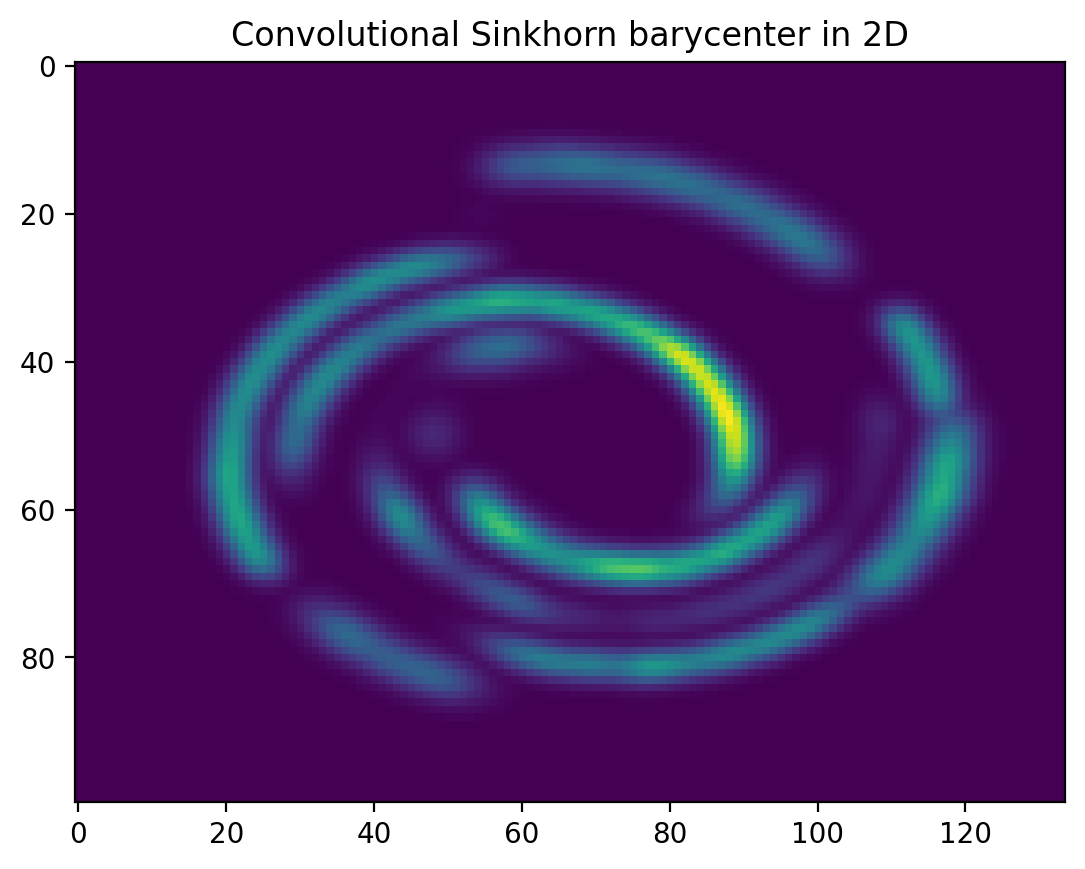
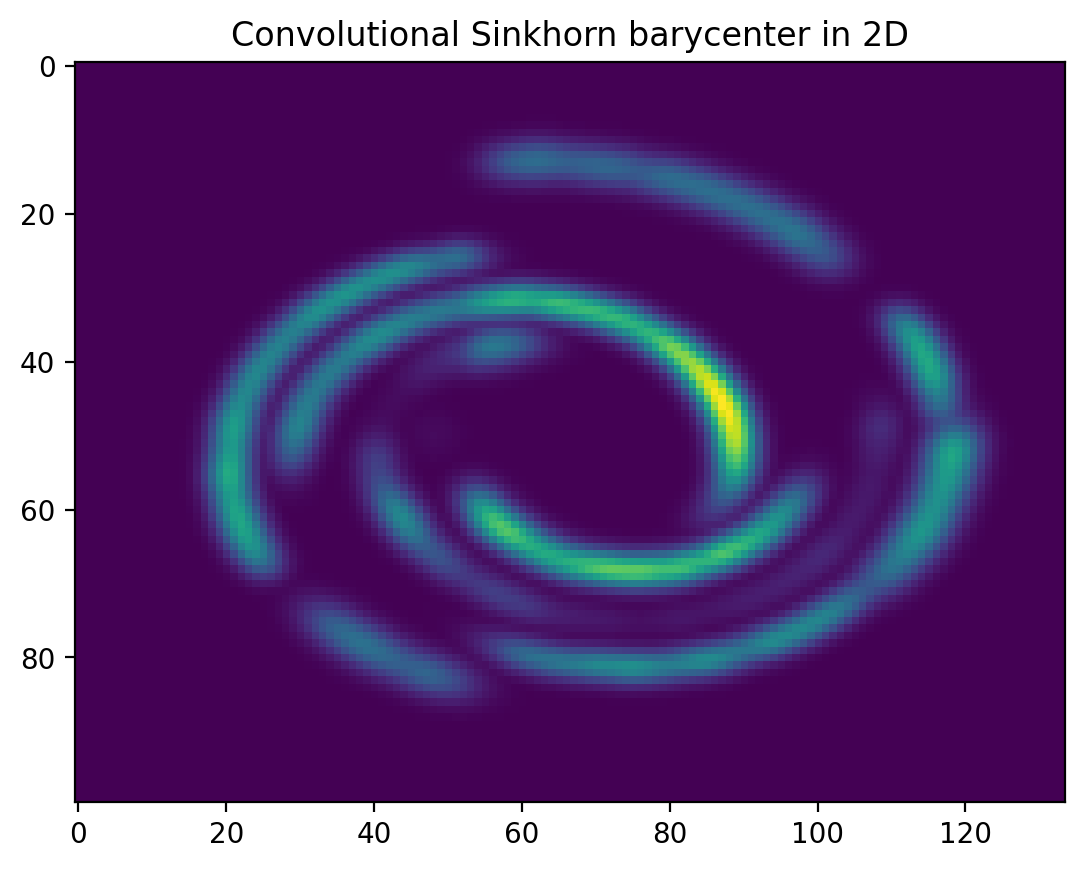
updating the README

diff --git a/README.md b/README.md
@@ -1,32 +1,40 @@
 # Tree-based Diffusion Schr&ouml;dinger Bridge
 
 This is the official code for the paper 'Tree-Based Diffusion Schr&ouml;dinger Bridge with Applications to Wasserstein
-Barycenters'. It extends the framework of [Diffusion Schr&ouml;dinger Bridge](https://arxiv.org/abs/2106.01357) to any
+Barycenters'. It extends the framework of [Diffusion Schr&ouml;dinger Bridge](https://arxiv.org/abs/2106.01357) [1] to
+any
 tree-structured joint distribution with known marginals on the leaves (thus including the classical Schr&ouml;dinger
 Bridge problem). By considering star-shaped trees, it enables to compute regularized Wasserstein-2 barycenters for
 high-dimensional empirical probability
-distributions, which is of main interest in Optimal Transport (OT).
+distributions, which is of main interest in Optimal Transport (OT). Our method is competitive with respect to state-of-the-art *regularized*
+algorithms from [2] and [3] in high-dimensional settings.
 
 ![drawing](images/drawing_tree.png)
 
 In our setting, **each edge of the tree is parameterized by two neural networks**, which model the forward and backward
 drifts of the diffusion processes. In theory, this requires to consider 2M neural networks, where M stands for the
-number of edges in the tree. To avoid any memory issue in practice, *our code only requires to consider 2 active neural networks*
-at each stage of the training process.
+number of edges in the tree. To avoid any memory issue in practice, *our code only requires to consider 2 active neural
+networks*
+at each stage of the training process. 
 
 Illustration (2D)
 ------------
 
-- *First row*: estimation of densities (OT reg=0.05 with 60 IPF cycles).
-- *Second to fourth row*: estimation of the Wasserstein-2 barycenter by diffusing from each leaf with various OT
-  regularizations (OT reg=0.05 with 60 IPF cycles, OT reg=0.1 with 50 IPF cycles, OT reg=0.2 with 50 IPF cycles).
+The following plots were obtained by considering the dataset 'Swiss Roll' as the first root in the training process. The
+corresponding models are saved in the directory `./checkpoints_model`.
 
-| Swiss Roll                                                                                              | Circle                                                                                                    | Moons                                                                                                   |
-|---------------------------------------------------------------------------------------------------------|-----------------------------------------------------------------------------------------------------------|---------------------------------------------------------------------------------------------------------|
-| ![swiss_f](images/2d_3datasets_epsilon=0.05/swiss_0_f_0_sde_epsilon=0.050_eps1_density_49_smooth.png)   | ![circle_f](images/2d_3datasets_epsilon=0.05/circle_0_f_0_sde_epsilon=0.050_eps1_density_49_smooth.png)   | ![moons_f](images/2d_3datasets_epsilon=0.05/moons_0_f_0_sde_epsilon=0.050_eps1_density_49_smooth.png)   |
-| ![swiss_b_1](images/2d_3datasets_epsilon=0.05/swiss_0_b_0_sde_epsilon=0.050_eps1_density_49_smooth.png) | ![circle_b_1](images/2d_3datasets_epsilon=0.05/circle_0_b_0_sde_epsilon=0.050_eps1_density_49_smooth.png) | ![moons_b_1](images/2d_3datasets_epsilon=0.05/moons_0_b_0_sde_epsilon=0.050_eps1_density_49_smooth.png) |
-| ![swiss_b_2](images/2d_3datasets_epsilon=0.1/swiss_0_b_0_sde_epsilon=0.100_eps1_density_49_smooth.png)  | ![circle_b_2](images/2d_3datasets_epsilon=0.1/circle_0_b_0_sde_epsilon=0.100_eps1_density_49_smooth.png)  | ![moons_b_2](images/2d_3datasets_epsilon=0.1/moons_0_b_0_sde_epsilon=0.100_eps1_density_49_smooth.png)  |
-| ![swiss_b_3](images/2d_3datasets_epsilon=0.2/swiss_0_b_0_sde_epsilon=0.200_eps1_density_49_smooth.png)  | ![circle_b_3](images/2d_3datasets_epsilon=0.2/circle_0_b_0_sde_epsilon=0.200_eps1_density_49_smooth.png)  | ![moons_b_3](images/2d_3datasets_epsilon=0.2/moons_0_b_0_sde_epsilon=0.200_eps1_density_49_smooth.png)  |
+| Swiss Roll                                                                                                         | Circle                                                                                                              | Moons                                                                                                              | *Setting*                                                       |
+|--------------------------------------------------------------------------------------------------------------------|---------------------------------------------------------------------------------------------------------------------|--------------------------------------------------------------------------------------------------------------------|-----------------------------------------------------------------|
+| ![swiss_b](images/2d_3datasets_epsilon=0.1/source=0,dest=1/0_b_50_sde_epsilon=0.100_eps1_density_49_smooth.png)    | ![circle_f](images/2d_3datasets_epsilon=0.1/source=1,dest=2/0_f_50_sde_epsilon=0.100_eps1_density_49_smooth.png)    | ![moons_f](images/2d_3datasets_epsilon=0.1/source=1,dest=3/0_f_50_sde_epsilon=0.100_eps1_density_49_smooth.png)    | Estimation of the **leaves** (OT reg=0.1, 50 mIPF cycles).      |
+| ![swiss_f_1](images/2d_3datasets_epsilon=0.05/source=0,dest=1/0_f_60_sde_epsilon=0.050_eps1_density_49_smooth.png) | ![circle_b_1](images/2d_3datasets_epsilon=0.05/source=1,dest=2/0_b_60_sde_epsilon=0.050_eps1_density_49_smooth.png) | ![moons_b_1](images/2d_3datasets_epsilon=0.05/source=1,dest=3/0_b_60_sde_epsilon=0.050_eps1_density_49_smooth.png) | Estimation of the **barycenter** (OT reg=0.05, 60 mIPF cycles). |
+| ![swiss_f_2](images/2d_3datasets_epsilon=0.1/source=0,dest=1/0_f_50_sde_epsilon=0.100_eps1_density_49_smooth.png)  | ![circle_b_2](images/2d_3datasets_epsilon=0.1/source=1,dest=2/0_b_50_sde_epsilon=0.100_eps1_density_49_smooth.png)  | ![moons_b_2](images/2d_3datasets_epsilon=0.1/source=1,dest=3/0_b_50_sde_epsilon=0.100_eps1_density_49_smooth.png)  | Estimation of the **barycenter** (OT reg=0.1, 50 mIPF cycles).  |
+| ![swiss_f_3](images/2d_3datasets_epsilon=0.2/source=0,dest=1/0_f_50_sde_epsilon=0.200_eps1_density_49_smooth.png)  | ![circle_b_3](images/2d_3datasets_epsilon=0.2/source=1,dest=2/0_b_50_sde_epsilon=0.200_eps1_density_49_smooth.png)  | ![moons_b_3](images/2d_3datasets_epsilon=0.2/source=1,dest=3/0_b_50_sde_epsilon=0.200_eps1_density_49_smooth.png)  | Estimation of the **barycenter** (OT reg=0.2, 50 mIPF cycles).  |
+
+We provide below barycenter plots obtained by other methods.
+
+| Free-support exact barycenter [2]                       | Free-support regularized barycenter [2]                     | Convolutional regularized barycenter [4]                    |
+|---------------------------------------------------------|-------------------------------------------------------------|-------------------------------------------------------------|
+| ![swiss_b](images/2d_free_support_exact_barycenter.png) | ![circle_f](images/2d_free_support_sinkhorn_barycenter.png) | ![moons_f](images/2d_convolutional_sinkhorn_barycenter.png) |
 
 Contributors
 ------------
@@ -70,13 +78,14 @@ at https://drive.google.com/drive/folders/0B7EVK8r0v71pWEZsZE9oNnFzTm8?resourcek
 
 - MNIST: `python data.py --data mnist`
 - CELEBA: `python data.py --data celeba`
-- Posterior aggregation (already available): `python data_posterior.py --data wine --splitting hom/het`
+- Posterior aggregation (**already available**): `python data_posterior.py --data wine --splitting hom/het`
 
 2. Change the configuration files:
 
 - `./config/config.yaml`: SDE/ODE settings for plots, initialisation setting, corrector setting
-- `./config/dataset/`: specific settings for each dataset (OT regularization, training parameters, checkpoints...)
-- `./config/model/`: specific setting for each model (fully connected neural network -> Basic or UNET)
+- `./config/dataset/`: specific settings for each dataset (OT regularization, starting root, training parameters,
+  checkpoints...)
+- `./config/model/`: specific setting for each model (fully connected neural network 'Basic' or UNET)
 
 The size of the cache dataset used to obtain samples in the training stage is given by : `cache_npar`
 x `num_cache_batches` x `num_steps` x `SHAPE`,
@@ -104,7 +113,8 @@ Checkpoints and sampled images will be saved to a newly created directory named 
   networks for the forward and the backward sampling directions that match `datasets`).
 - Set `checkpoint_run` to True in the dataset configuration file.
 
-In this repository, there are 3 sets of pretrained models for the setting `2d_3datasets` with equal barycenter weights,
+In this repository, there are 3 sets of pretrained models for the setting `2d_3datasets`, staring from the root `swiss`,
+with equal barycenter weights,
 each one corresponding to a certain level of OT regularization (`epsilon=0.2, 0.1, 0.05`). To use them, make sure that
 you modify the following
 parameters in the dataset configuration file:
@@ -116,7 +126,7 @@ parameters in the dataset configuration file:
 5. Train models from pretrained models:
 
 - Follow Step 4.
-- Set `start_n_ipf` to the mIPF iteration corresponding to the pretrained models.
+- Set `start_n_ipf` to the mIPF cycle corresponding to the pretrained models.
 
 Checkpoints and sampled images will be saved to a newly created directory named `experiments`.
 
@@ -135,10 +145,25 @@ Checkpoints and sampled images will be saved to a newly created directory named 
 
 Checkpoints and sampled images will be saved to a newly created directory named `experiments`.
 
-7. Check the setting in `run_free_support_barycenter.py` and compare with the method from Cuturi and Doucet (2014):
+7. Check the setting in `run_free_support_barycenter.py` and compare with the method from [2]:
 
 - 2d, 3 datasets - Barycenter (CPU):  `python run_free_support_barycenter.py --data 2d`
-- Gaussian, 3 datasets - Barycenter (CPU):  `python run_free_support_barycenter.py --data gaussian`
-- Posterior, 3 datasets - Barycenter (CPU):  `python run_free_support_barycenter.py --data posterior`
+- Gaussian, 3 datasets - Barycenter (CPU, no plot):  `python run_free_support_barycenter.py --data gaussian`
+- Posterior, 3 datasets - Barycenter (CPU, no plot):  `python run_free_support_barycenter.py --data posterior`
+
+References
+------------
+
+[1] V. De Bortoli, J. Thornton, J. Heng & A. Doucet, *Diffusion Schrödinger bridge with applications
+to score-based generative modeling*, Advances in Neural Information Processing Systems, 2021.
+
+[2] M. Cuturi & A. Doucet, *Fast computation of Wasserstein barycenters*, International conference on machine
+learning, 2014.
+
+[3] L. Li, A. Genevay, M. Yurochkin & J. Solomon, *Continuous regularized Wasserstein
+barycenters*, Advances in Neural Information Processing Systems, 2020.
+
+[4] J. Solomon, F. De Goes, G. Peyré, M. Cuturi, A. Butscher, A. Nguyen, & L. Guibas *Convolutional wasserstein
+distances: Efficient optimal transportation on geometric domains*, ACM Transactions on Graphics, 2015.
 
 
